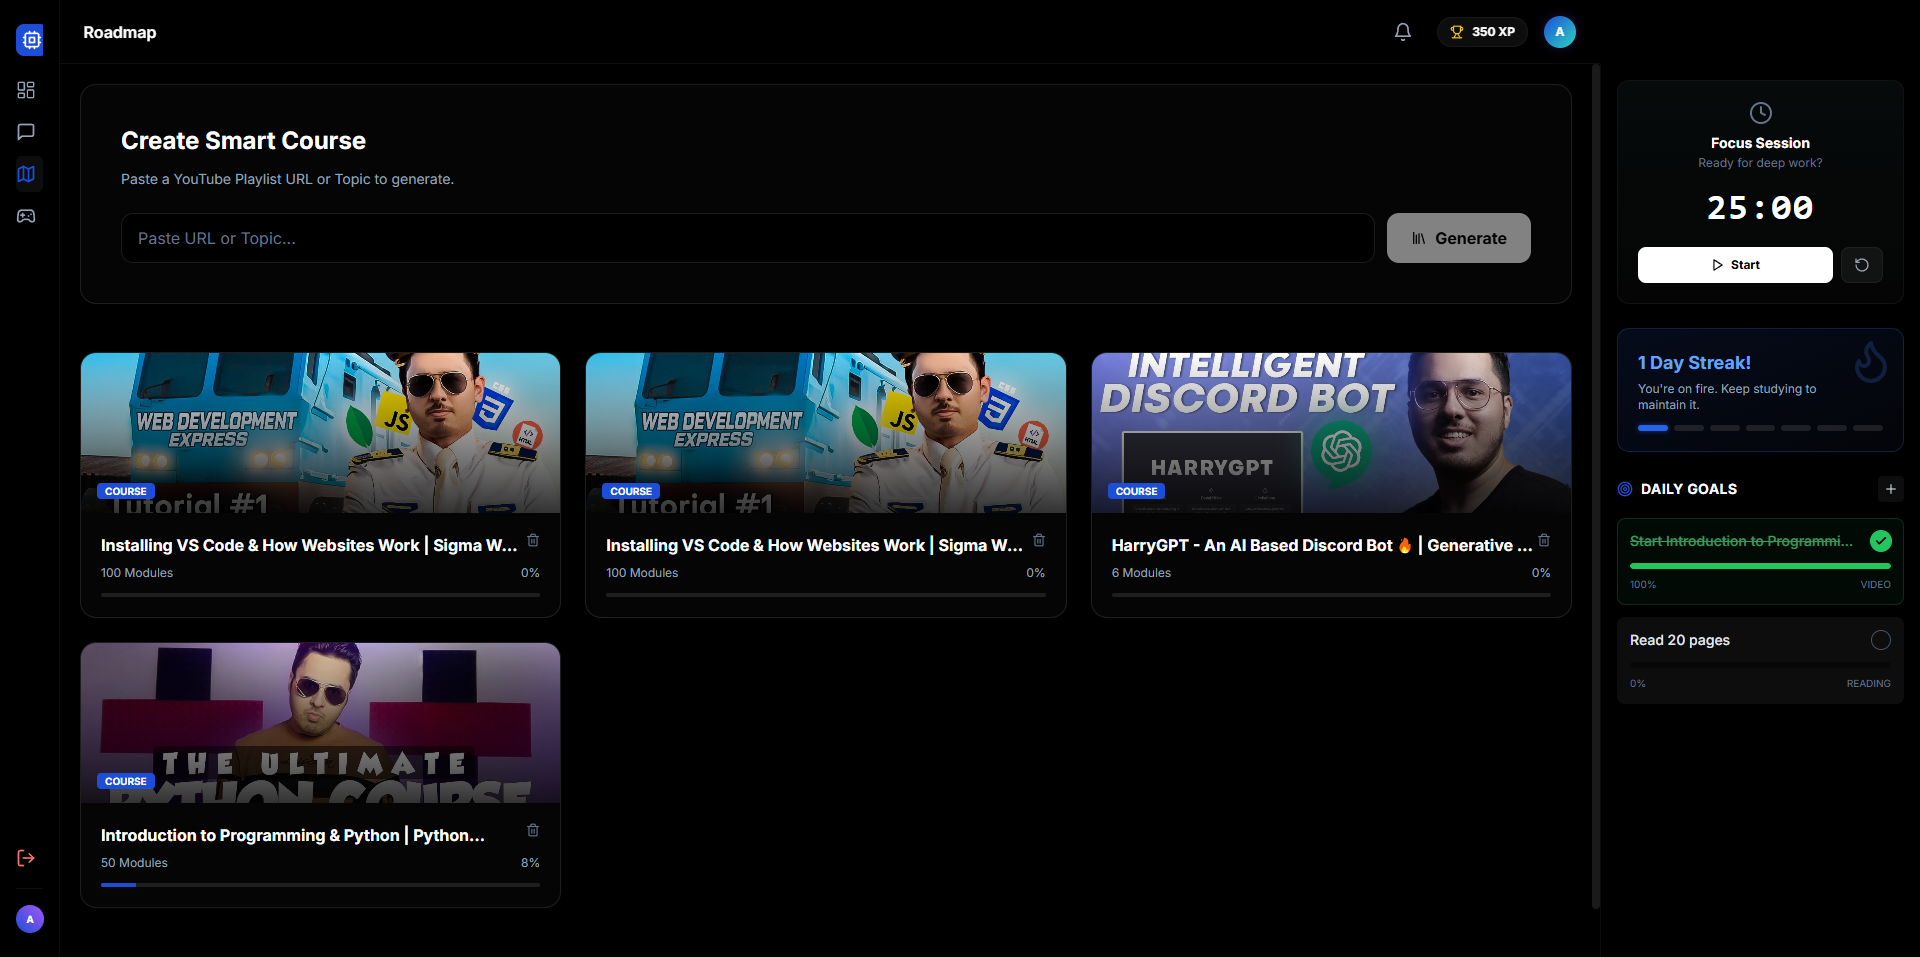
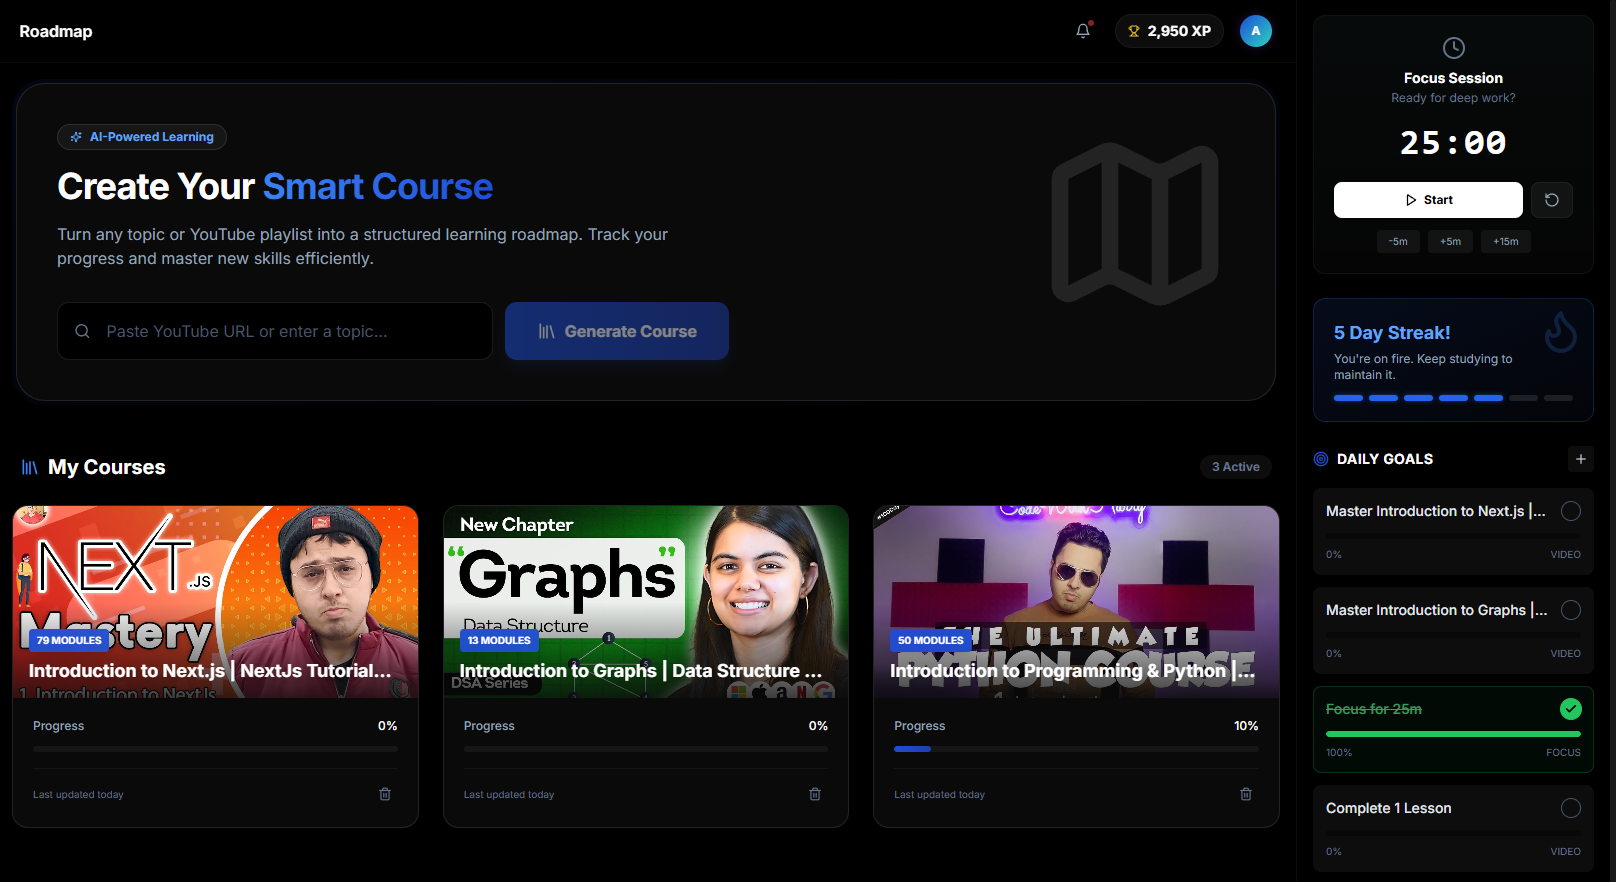
feat: Implement core database services for user profiles, chat, achievements, and roadmaps, integrate Gemini AI, and establish video API and server infrastructure.

diff --git a/api/video.js b/api/video.js
@@ -250,11 +250,116 @@ export default async function handler(req, res) {
         }
       }
     } else {
-      return res.status(400).json({
-        error: 'Invalid YouTube URL',
-        details: 'Please provide a valid YouTube video or playlist URL.',
-        providedUrl: url
-      });
+      // Treat as a search query if it's not a URL
+      console.log('Treating input as search query:', url);
+
+      try {
+        // Try Innertube search first
+        const youtube = await Innertube.create();
+
+        // Search for playlists first as they are better for courses
+        const playlistResults = await youtube.search(url, { type: 'playlist', limit: 1 });
+
+        if (playlistResults && playlistResults.results && playlistResults.results.length > 0) {
+          const firstResult = playlistResults.results[0];
+          if (firstResult.type === 'Playlist') {
+            console.log('Found playlist via search:', firstResult.title?.toString());
+
+            // We found a playlist, now we need to fetch its videos
+            const playlistId = firstResult.id;
+            const playlist = await youtube.getPlaylist(playlistId);
+
+            if (playlist && playlist.items) {
+              // Fetch all videos by loading continuation pages (limit to reasonable amount for speed)
+              let allItems = [...playlist.items];
+              let currentBatch = playlist;
+              let continuationCount = 0;
+
+              // Fetch up to 2 continuations (approx 300 videos max) to be safe
+              while (currentBatch.has_continuation && continuationCount < 2) {
+                try {
+                  currentBatch = await currentBatch.getContinuation();
+                  if (currentBatch && currentBatch.items) {
+                    allItems = [...allItems, ...currentBatch.items];
+                  } else {
+                    break;
+                  }
+                  continuationCount++;
+                } catch (contError) {
+                  break;
+                }
+              }
+
+              const mappedItems = allItems.map(item => ({
+                title: item.title?.toString() || "Untitled Video",
+                description: `Duration: ${formatDuration(item.duration) || 'Unknown'} | Author: ${item.author?.name || 'Unknown'}`,
+                duration: formatDuration(item.duration),
+                videoUrl: `https://www.youtube.com/watch?v=${item.id}`,
+                thumbnail: item.thumbnails ? item.thumbnails[0].url : `https://placehold.co/1280x720/1e1e2e/FFF?text=Video`
+              }));
+
+              return res.status(200).json({
+                type: 'playlist',
+                items: mappedItems,
+                originalUrl: `https://www.youtube.com/playlist?list=${playlistId}`,
+                playlistId: playlistId
+              });
+            }
+          }
+        }
+
+        // If no playlist found, search for video
+        const searchResults = await youtube.search(url, { type: 'video', limit: 1 });
+
+        if (searchResults && searchResults.results && searchResults.results.length > 0) {
+          const firstResult = searchResults.results[0];
+
+          // If it's a video
+          if (firstResult.type === 'Video') {
+            console.log('Found video via search:', firstResult.title?.toString());
+            const videoData = {
+              type: 'video',
+              items: [{
+                title: firstResult.title?.toString() || "YouTube Video",
+                description: firstResult.description?.toString() || "No description available",
+                duration: formatDuration(firstResult.duration),
+                videoUrl: `https://www.youtube.com/watch?v=${firstResult.id}`,
+                thumbnail: firstResult.thumbnails ? firstResult.thumbnails[0].url : `https://placehold.co/1280x720/1e1e2e/FFF?text=Video`
+              }],
+              originalUrl: `https://www.youtube.com/watch?v=${firstResult.id}`,
+              videoId: firstResult.id
+            };
+            return res.status(200).json(videoData);
+          }
+        }
+
+        // Fallback to youtube-sr search (Video only as fallback)
+        console.log('Falling back to youtube-sr search');
+        const video = await YouTube.searchOne(url);
+
+        if (video) {
+          const videoData = {
+            type: 'video',
+            items: [{
+              title: video.title || "YouTube Video",
+              description: video.description || "No description available",
+              duration: formatDuration(video.durationFormatted || video.duration),
+              videoUrl: `https://www.youtube.com/watch?v=${video.id}`,
+              thumbnail: video.thumbnail?.url || video.thumbnail || `https://placehold.co/1280x720/1e1e2e/FFF?text=Video`,
+              isLive: video.live || false
+            }],
+            originalUrl: `https://www.youtube.com/watch?v=${video.id}`,
+            videoId: video.id
+          };
+          return res.status(200).json(videoData);
+        }
+
+        return res.status(404).json({ error: 'No results found for query' });
+
+      } catch (searchError) {
+        console.error('Search Error:', searchError);
+        return res.status(500).json({ error: 'Search failed', details: searchError.message });
+      }
     }
   } catch (error) {
     console.error('Video API Error:', error.message);

diff --git a/server/index.js b/server/index.js
@@ -242,11 +242,64 @@ app.post('/api/video', async (req, res) => {
         }
       }
     } else {
-      return res.status(400).json({
-        error: 'Invalid YouTube URL',
-        details: 'Please provide a valid YouTube video or playlist URL.',
-        providedUrl: url
-      });
+      // Treat as a search query if it's not a URL
+      console.log('Treating input as search query:', url);
+
+      try {
+        const { Innertube } = require('youtubei.js');
+        // Try Innertube search first
+        const youtube = await Innertube.create();
+        const searchResults = await youtube.search(url, { type: 'video', limit: 1 });
+
+        if (searchResults && searchResults.results && searchResults.results.length > 0) {
+          const firstResult = searchResults.results[0];
+
+          // If it's a video
+          if (firstResult.type === 'Video') {
+            const videoData = {
+              type: 'video',
+              items: [{
+                title: firstResult.title?.toString() || "YouTube Video",
+                description: firstResult.description?.toString() || "No description available",
+                duration: firstResult.duration?.toString() || '15 min',
+                videoUrl: `https://www.youtube.com/watch?v=${firstResult.id}`,
+                thumbnail: firstResult.thumbnails ? firstResult.thumbnails[0].url : `https://placehold.co/1280x720/1e1e2e/FFF?text=Video`
+              }],
+              originalUrl: `https://www.youtube.com/watch?v=${firstResult.id}`,
+              videoId: firstResult.id
+            };
+            return res.json(videoData);
+          }
+        }
+
+        // Fallback to youtube-sr search
+        console.log('Falling back to youtube-sr search');
+        const YouTube = require("youtube-sr").default;
+        const video = await YouTube.searchOne(url);
+
+        if (video) {
+          const videoData = {
+            type: 'video',
+            items: [{
+              title: video.title || "YouTube Video",
+              description: video.description || "No description available",
+              duration: video.durationFormatted || '15 min',
+              videoUrl: `https://www.youtube.com/watch?v=${video.id}`,
+              thumbnail: video.thumbnail?.url || video.thumbnail || `https://placehold.co/1280x720/1e1e2e/FFF?text=Video`,
+              isLive: video.live || false
+            }],
+            originalUrl: `https://www.youtube.com/watch?v=${video.id}`,
+            videoId: video.id
+          };
+          return res.json(videoData);
+        }
+
+        return res.status(404).json({ error: 'No results found for query' });
+
+      } catch (searchError) {
+        console.error('Search Error:', searchError);
+        return res.status(500).json({ error: 'Search failed', details: searchError.message });
+      }
     }
   } catch (error) {
     console.error('Video API Error:', error.message);

diff --git a/App.tsx b/App.tsx
@@ -193,6 +193,8 @@ const App: React.FC = () => {
       // Ensure xp and numeric fields are safe
       const safeProfile = {
         ...profile,
+        // Prioritize profile name if it exists and isn't empty, otherwise keep existing or default
+        name: profile.name || user.name || 'Student',
         xp: profile.xp || 0,
         streak: profile.streak || 1,
         level: profile.level || 1
@@ -292,12 +294,13 @@ const App: React.FC = () => {
       const lastLoginDate = new Date(lastLoginStr);
 
       // Normalize dates to midnight for accurate day comparison
-      const todayMidnight = new Date(today.getFullYear(), today.getMonth(), today.getDate());
+      // Use local time to respect user's day boundary
+      const todayMidnight = new Date(now.getFullYear(), now.getMonth(), now.getDate());
       const lastLoginMidnight = new Date(lastLoginDate.getFullYear(), lastLoginDate.getMonth(), lastLoginDate.getDate());
 
       // Calculate difference in days (using midnight-normalized dates)
       const diffTime = todayMidnight.getTime() - lastLoginMidnight.getTime();
-      const diffDays = Math.floor(diffTime / (1000 * 60 * 60 * 24));
+      const diffDays = Math.round(diffTime / (1000 * 60 * 60 * 24));
 
       if (diffDays === 0) {
         // Logged in today already, keep streak

diff --git a/services/geminiService.ts b/services/geminiService.ts
@@ -328,10 +328,11 @@ export const generateRoadmap = async (input: string): Promise<RoadmapStep[]> => 
 
     const isUrl = input.includes('http');
 
-    // 1. HANDLE YOUTUBE PLAYLIST AND INDIVIDUAL VIDEOS
-    if (isUrl && input.trim() !== '' && (input.includes('youtube.com') || input.includes('youtu.be'))) {
+    // 1. HANDLE YOUTUBE PLAYLIST, INDIVIDUAL VIDEOS, OR TOPIC SEARCH
+    if (input.trim() !== '') {
       try {
         // Use relative path for serverless deployment - now using unified video endpoint
+        // This endpoint now handles URLs AND search queries
         const response = await fetch('/api/video', {
           method: 'POST',
           headers: { 'Content-Type': 'application/json' },
@@ -382,7 +383,7 @@ export const generateRoadmap = async (input: string): Promise<RoadmapStep[]> => 
               throw new Error(`Server returned status ${response.status}: Unable to read response`);
             }
           }
-          
+
           console.warn("Playlist API Error Response:", errorData);
 
           // Always throw an error to trigger the fallback mechanism

diff --git a/services/db.ts b/services/db.ts
@@ -145,6 +145,8 @@ export const getUserProfile = async (): Promise<UserProfile> => {
 
         return {
           ...data,
+          // Prioritize name from DB, then metadata, then fallback
+          name: data.name || user.user_metadata.full_name || 'Student',
           xp: Number(data.xp || 0),
           streak: Number(data.streak || 1),
           level: Number(data.level || 1),
